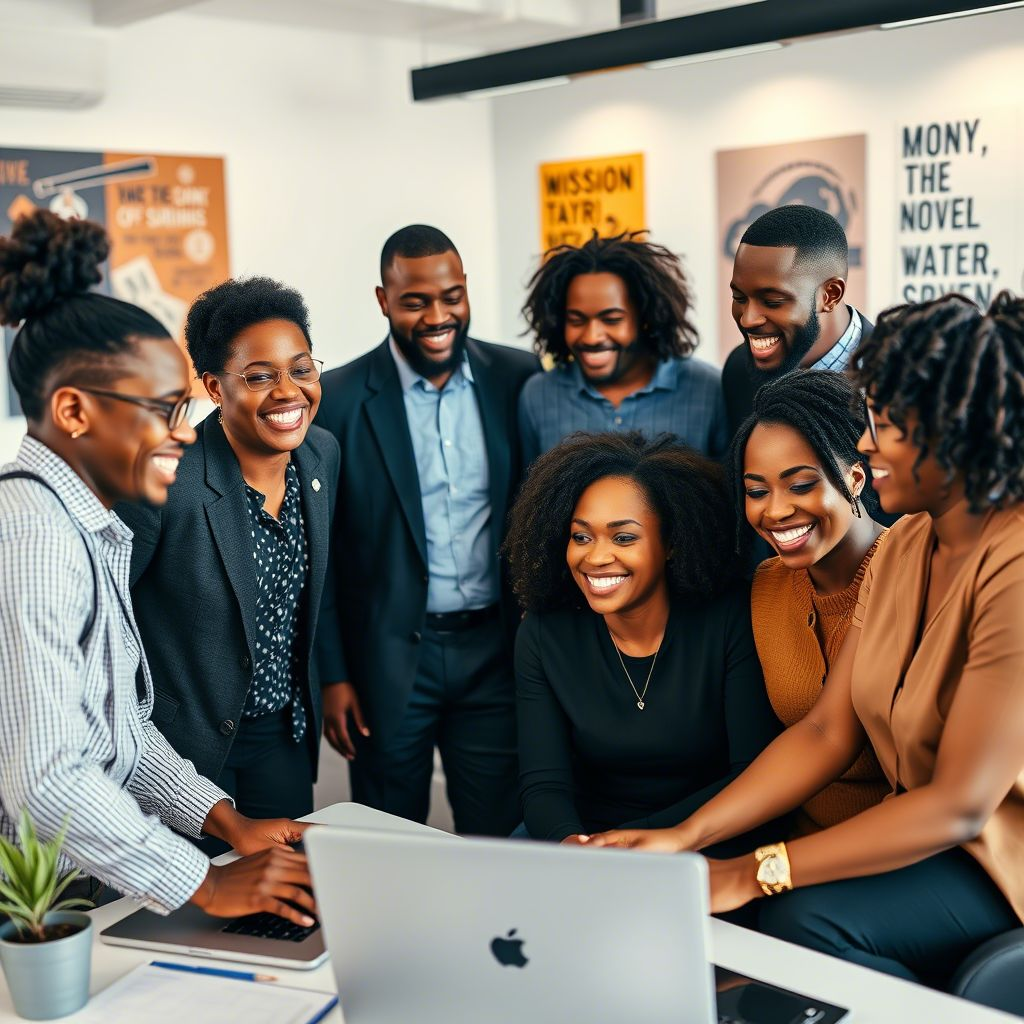
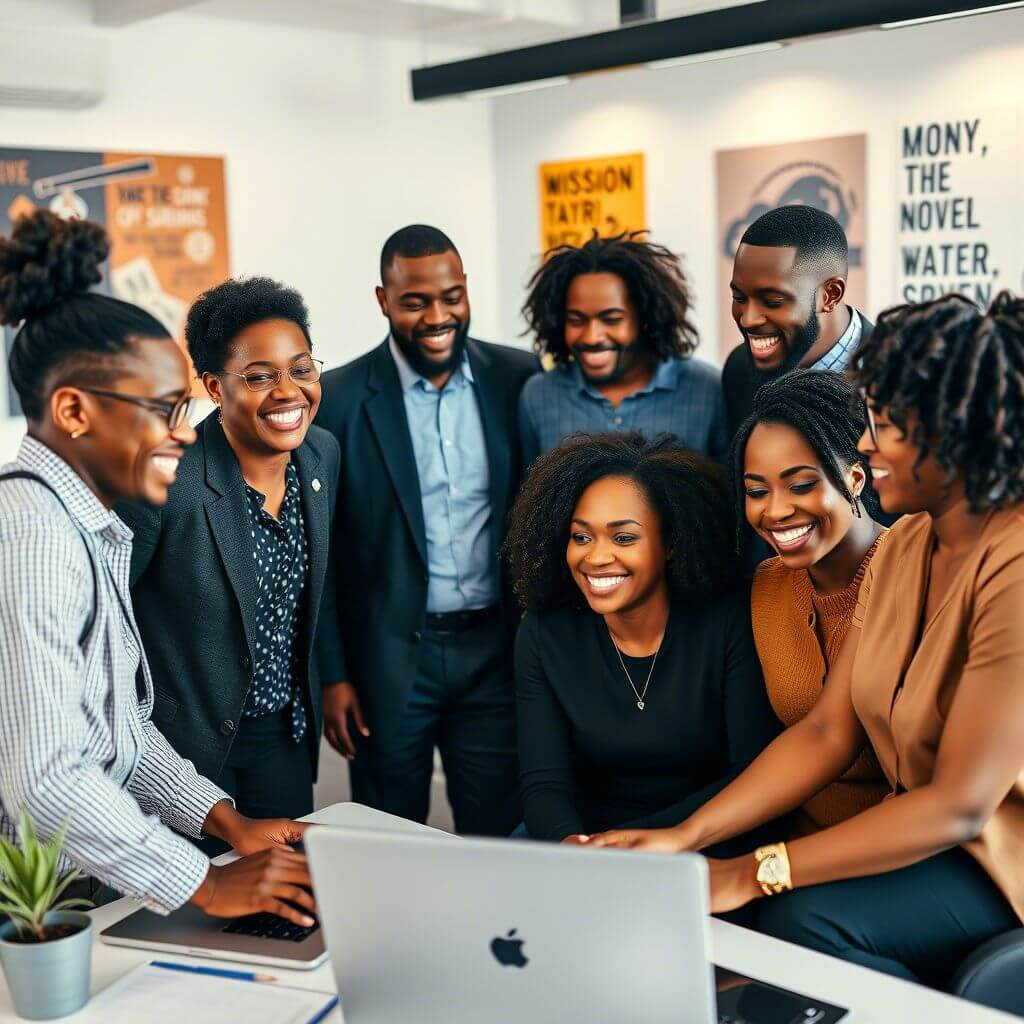
updated

Changed region(s): [[0.125, 0.7188, 0.2188, 0.8125], [0.8125, 0.4375, 0.8438, 0.5], [0.25, 0.5, 0.2812, 0.5312]]

diff --git a/src/Component/About.jsx b/src/Component/About.jsx
@@ -1,8 +1,8 @@
 import React from "react";
 import { Target, Eye } from "lucide-react";
 import { motion } from "framer-motion";
-import about1 from "../Component/Assets/AboutAfriclick (2).jpg";
-import about2 from "../Component/Assets/AboutAfriclick.jpg";
+import about1 from "../Component/Assets/AboutAfriclick (2).webp";
+import about2 from "../Component/Assets/AboutAfriclick.webp";
 
 const About = () => {
   return (

diff --git a/src/Component/Hero.jsx b/src/Component/Hero.jsx
@@ -1,7 +1,7 @@
 import React from "react";
 import { ChevronDown } from "lucide-react";
 import { motion } from "framer-motion";
-import AfriClick from "../Component/Assets/AfriClick Hero.jpg";
+import AfriClick from "../Component/Assets/AfriClick Hero.webp";
 
 export const Hero = () => {
   return (

diff --git a/src/Component/FinalCTA.jsx b/src/Component/FinalCTA.jsx
@@ -1,5 +1,5 @@
 import React from "react";
-import BackgroundImage from "../Component/Assets/FinalCTAImage.jpg"
+import BackgroundImage from "../Component/Assets/FinalCTAImage.webp"
 
 const FinalCTA = () => {
   return (
